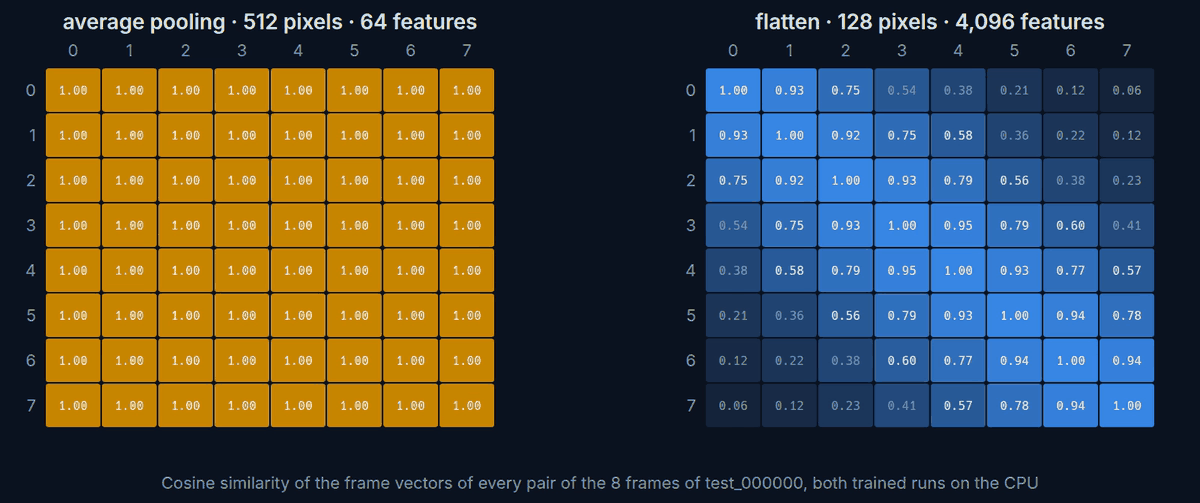
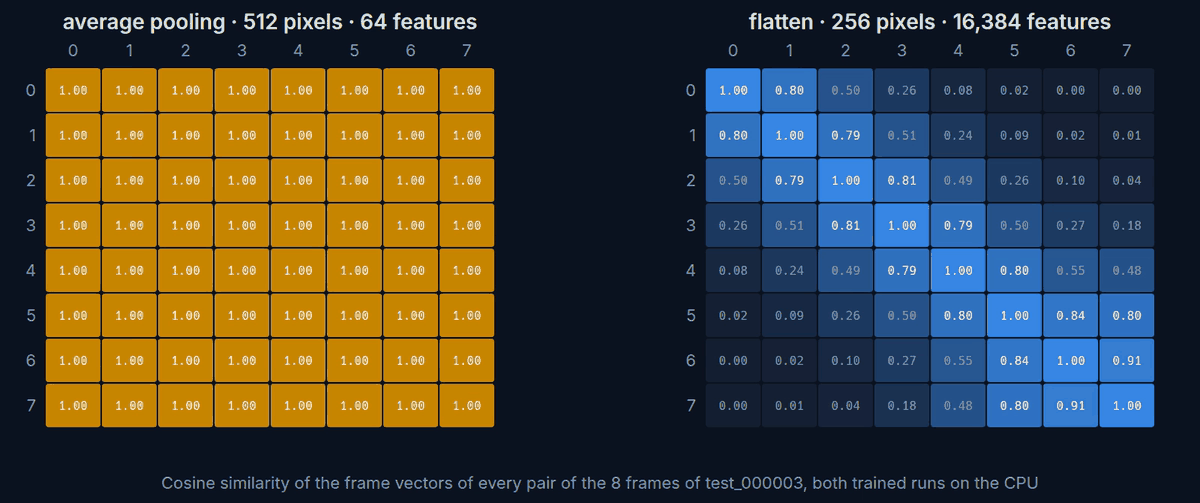
[DOCS] Cut README/sequence_padded_batch.gif and README/sequence_pooling_similarity.png again from the sequence classification series video rebuilt on 2026-11-19 on its runs retrained on the moving shapes of 2026-11-18: the padded batch GIF (900 x 248, 94 frames as before) shows its four sequences of
Claude-Session: https://claude.ai/code/session_016uCt2XTu9R5KcJCjGynGL8

diff --git a/README.md b/README.md
@@ -316,7 +316,7 @@ To see why a class given by a motion needs flatten, follow one frame through the
 <p align="center">
   <img src="README/sequence_pooling_similarity.png" width="100%" />
 </p>
-<p align="center"><em>The same on the two trained M2O runs of the sequence classification tutorial, on the 8 frames of one test sequence: with average pooling (512 pixels, 64 features) every pair of frames scores 1.00, the frames being indistinguishable; with flatten (128 pixels, 4,096 features) the similarity is 0.92 to 0.95 between neighbouring frames and falls to 0.06 between the first and the last, the frame vector following the shape.</em></p>
+<p align="center"><em>The same on two trained M2O runs of the sequence classification tutorial, on the 8 frames of one test sequence: with average pooling (512 pixels, 64 features) every pair of frames scores 1.00, the frames being indistinguishable; with flatten (256 pixels, 16,384 features) the similarity is 0.79 to 0.91 between neighbouring frames and falls to 0.00 between the first and the last, the frame vector following the shape.</em></p>
 
 ### Label Files
 Before a first launch on your own data, every split needs a `labels.json` listing its images, sequences or pairs with their categories, and the dataset needs one `label_mapping.json` turning these categories into the classes the model predicts. The `//` comments below only explain the examples: the JSON files take none. `class_folder_manifests.py` (one folder per class) and `pair_list_manifests.py` (CMP pair lists) write both files for you.
